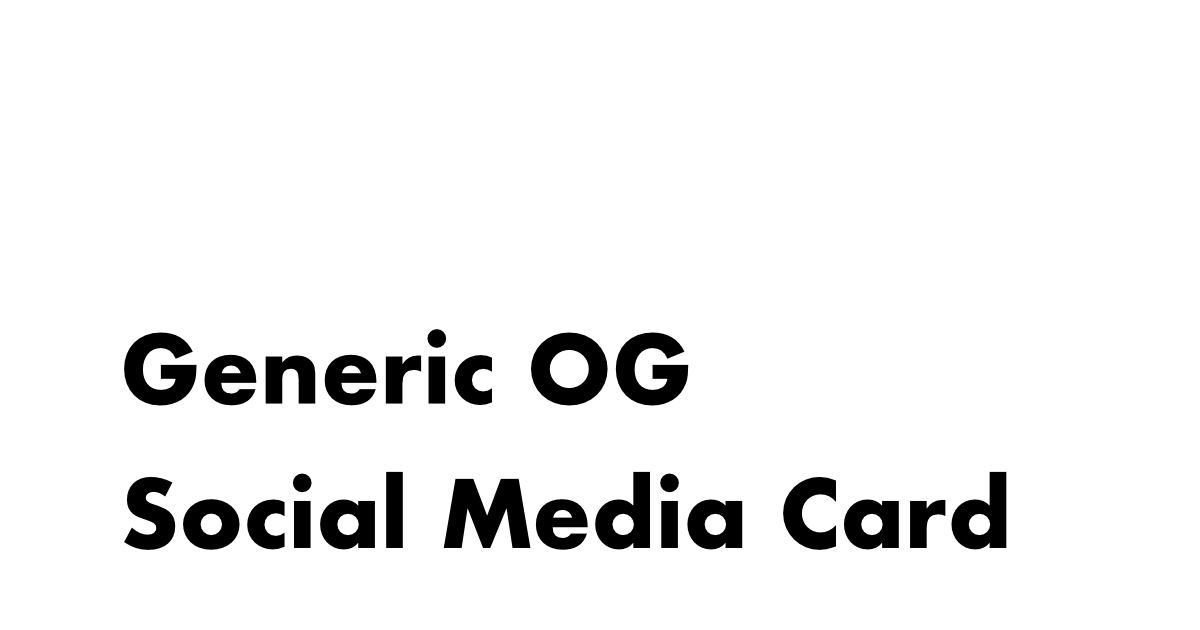
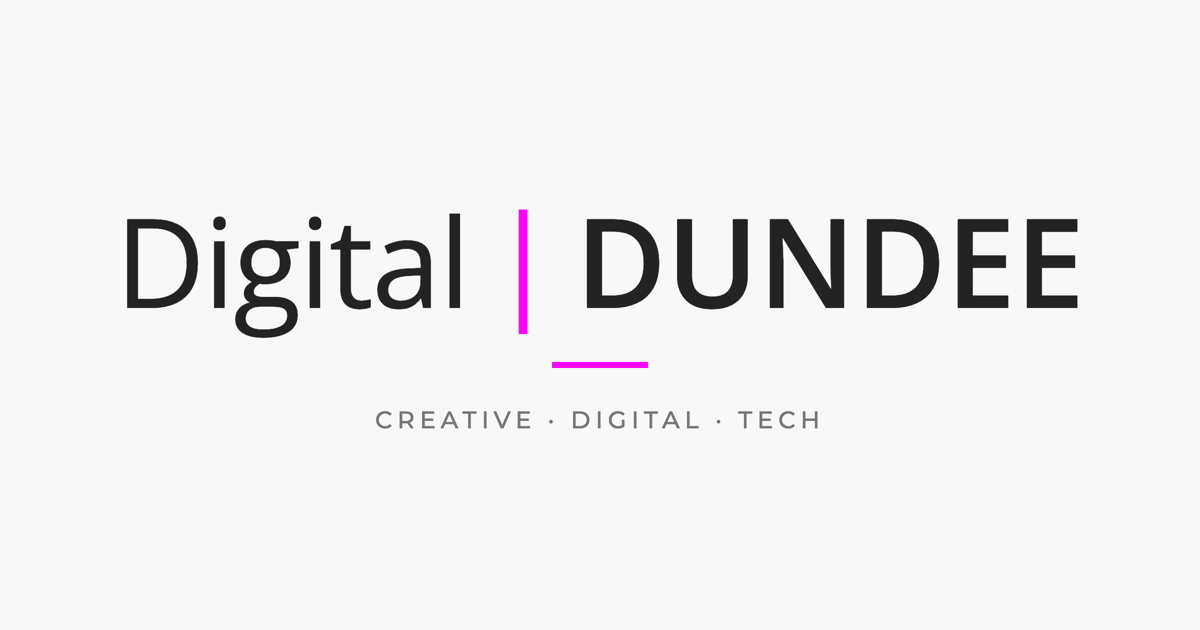
Branded generic social card; fix og:image URLs on 315 pages
- generic-social-1200x630.png is now a Digital | DUNDEE card (source in
  design/og-card.html) instead of the starter placeholder
- Basehead accepts an image path, full URL or card filename, so events,
  resources and company pages no longer get /images/social//_astro/ URLs
- News and success stories use their real image; news items that only have
  the stand-in placeholder use the generic card
- ISSUES.md: meta descriptions (deferred), image sizes, corrections log;
  CHANGES.md updated

diff --git a/design/og-card.html b/design/og-card.html
@@ -1,0 +1,21 @@
+<!-- Source for public/images/social/generic-social-1200x630.png (1200x630).
+     Serve it from public/ (e.g. copy to public/og-card.html), open it in a
+     1200x630 browser window with the dev server running, screenshot, then
+     delete the copy. Fonts load from /fonts. -->
+<!doctype html>
+<meta charset="utf-8">
+<style>
+  @font-face { font-family: 'OS'; font-weight: 300 800; src: url('/fonts/OpenSans-VariableFont_wdthwght.woff2') format('woff2-variations'); }
+  @font-face { font-family: 'MS'; font-weight: 100 900; src: url('/fonts/Montserrat-VariableFont_wght.woff2') format('woff2-variations'); }
+  * { margin: 0; box-sizing: border-box; }
+  html, body { width: 1200px; height: 630px; overflow: hidden; }
+  body { display: grid; place-content: center; justify-items: center; gap: 40px; background: #f8f8f8; }
+  .brand { display: flex; align-items: baseline; gap: 20px; color: #232323; font: 400 124px/1 'OS', sans-serif; letter-spacing: -1.5px; }
+  .brand .pipe { color: #ff00ff; font-weight: 400; transform: translateY(-4px); }
+  .brand strong { font-weight: 600; letter-spacing: 0; }
+  .rule { width: 96px; height: 6px; background: #ff00ff; }
+  .tag { color: #767676; font: 500 24px/1 'MS', sans-serif; letter-spacing: 5px; text-transform: uppercase; }
+</style>
+<div class="brand"><span>Digital</span><span class="pipe">|</span><strong>DUNDEE</strong></div>
+<div class="rule"></div>
+<div class="tag">Creative &middot; Digital &middot; Tech</div>

diff --git a/ISSUES.md b/ISSUES.md
@@ -15,6 +15,9 @@ Changes to content that differ from the live site, or that fix a fault in our ow
 | 2026-10-08 | Talent & Skills, Invest In Dundee, Locate Dundee | Replaced with the live page text | Our copies held the Enjoy Dundee text ("See Dundee Safely", Covid-era travel advice) |
 | 2026-10-08 | Connected Dundee | Replaced with the live page text | Our copy had paragraphs from the Collaborate page pasted into it |
 | 2026-10-08 | Tay5G Challenge Fund 2 | `tay5g@dundeecity.gv.uk` is now `tay5g@dundeecity.gov.uk` (text and `mailto:` link, 2 places) | Typo in the live copy; the Tay5G landing page and Challenge Fund 2 itself use the `.gov.uk` address |
+| 2026-10-08 | News: Dundee computing student turns teacher; Dundee researcher's image voted winner of Images with Impact; "It's Not One Thing" (aphasia) | A backtick used as an opening quote (`` `Computer Science for Everyone’ ``, 20 in all across three articles, including a title and image alt text) is now a curly opening quote `‘` | The backtick starts inline code in markdown and broke the formatting of the text that followed |
+| 2026-10-08 | Social sharing image | `generic-social-1200x630.png` is now a Digital \| DUNDEE card (the menu lockup on the page background) | It was the starter template's placeholder, a white card reading "Generic OG Social Media Card", used by 39 pages that have no image of their own. Source: `design/og-card.html` |
+| 2026-10-08 | Social sharing images on events, resources, company, news and success-story pages | `og:image` and `twitter:image` now point at each page's real image (or the new generic card for the 40 news items that only have the stand-in placeholder) | 315 pages had a broken URL (a double slash and the wrong folder, or a filename that does not exist), so shared links showed no image |
 | 2026-10-08 | Get Services | Page replaced with the live text; title is now "Get Services" | Our copy had "Get Serivices" in the hero, a mismatched meta title and the wrong hero alt text |
 | 2026-10-08 | Tay5G landing page | Replaced with the live page text | Ours was a placeholder copied from the Contact page |
 | 2026-10-08 | Connected Dundee, Enjoy Dundee | Images re-hosted locally | They pointed at old Drupal paths (`/sites/default/files/...`) that do not exist here |
@@ -53,3 +56,4 @@ Problems found on the live site or in our copy of its content. Tell the site own
 8. **Copy-pasted page metadata.** `be-dundee.astro` has the meta description "The metadescription". The Collaborate page has the Careers and Jobs description. Enjoy Dundee's hero image has the alt text "Collaborate page header". These pages were written by hand and are not on the live site in this form.
 9. **Two job figures for the same statistic.** The Be Dundee page (live and here) lists "1,569 Jobs in digital tech (2017)" and "2,660 Digital tech jobs (2017)" in the same list, and they do not match. The correct figure needs confirming against the source report. For reference, £181m turnover divided by 1,569 jobs is £115k per employee, which matches the "£115k Digital tech turnover by employee" line; 2,660 would give about £68k. The whole list is also from 2017, so the statistics are out of date.
 10. **Inconsistent image sizes and shapes.** Content images range from tiny to huge and from very wide to portrait. Of the 344 images in our copy of the site (excluding page headers), 135 are under 400px wide, 88 are wide logos or banners (more than 2.6 times wider than tall, 73 of them company logos), 11 are portrait, and widths run from 54px to 5083px. Event and news card images are mostly 2:1 (480x240) and 3:2 (480x320), with many squares. The live site forces every card image into a 360x200 box with `object-fit: fill`, so wide banners are squashed and square images are stretched. The worst case is the Tayside Tech Fest event: the original upload is 343x52, which the live site upscales to 1979x300 and then squeezes into the card. Our cards now pick cropping or showing the whole image from each image's shape and size (see CHANGES.md), but the source images need replacing with consistent, larger versions.
+11. **Meta descriptions are often too long and inadequate.** Not to be addressed at this stage. Across the 338 descriptions in the content files, 67 are over 160 characters (63 news items; the longest is 548), 110 end in "..." where they were cut off mid-sentence (87 events, 10 resources, all 13 success stories), 37 are under 50 characters or nearly empty (28 of them resources) and 40 are identical to another entry. Most are just the opening of the article body, so they do not summarise it or give a reason to click. The 28 hand-written page descriptions are all within 160 characters, though some are generic ("Enjoy Dundee, Tay Tech and Tay5G - a portal for...").

diff --git a/CHANGES.md b/CHANGES.md
@@ -23,6 +23,19 @@ All notable changes to the Digital Dundee Astro project.
 - **Card images** — Forced aspect ratios stretched non-matching images. They now use `object-fit: cover` at one ratio (1.8); the separate `.news` and `.event` ratios were removed
 - **Event cards** — Bottom padding after the date
 
+### Content: stray backticks
+
+#### Fixed
+
+- **Backtick used as an opening quote** — Three news articles (`dundee-computing-student-turns-teacher`, `dundee-researcher...images-impact`, `it's-not-one-thing...aphasia`) had a backtick before quoted titles such as `Computer Science for Everyone', which markdown treats as the start of inline code and broke the formatting. All 20 are now curly opening quotes (`‘`), including one in a title and image alt text
+
+### Social sharing card
+
+#### Fixed
+
+- **Generic Open Graph image** — `public/images/social/generic-social-1200x630.png`, the fallback image for every page without its own (and so the preview when most pages are shared), was the starter template's white "Generic OG Social Media Card" placeholder. It is now a 1200x630 card using the menu's Digital | DUNDEE lockup (Open Sans, magenta pipe, semibold DUNDEE) with a "Creative · Digital · Tech" line. The source is `design/og-card.html`, with instructions for re-rendering it
+- **Broken `og:image` URLs on 315 pages** — `Basehead.astro` always glued the image onto `/images/social/`, so events, resources and company pages (which pass `/_astro/...` image paths) got URLs like `/images/social//_astro/...`, and news and success stories (which passed a bare filename from `seo.ogImage`) pointed at files that do not exist. `Basehead` now accepts an image path, a full URL or a card filename, and news and success stories use their real processed image. The 40 news articles whose only image is the small `placeholder.png` use the full-size card instead. Checked in the build: all 706 pages now point at an image that exists (430 the generic card, 276 their own)
+
 ### Card images
 
 #### Fixed
